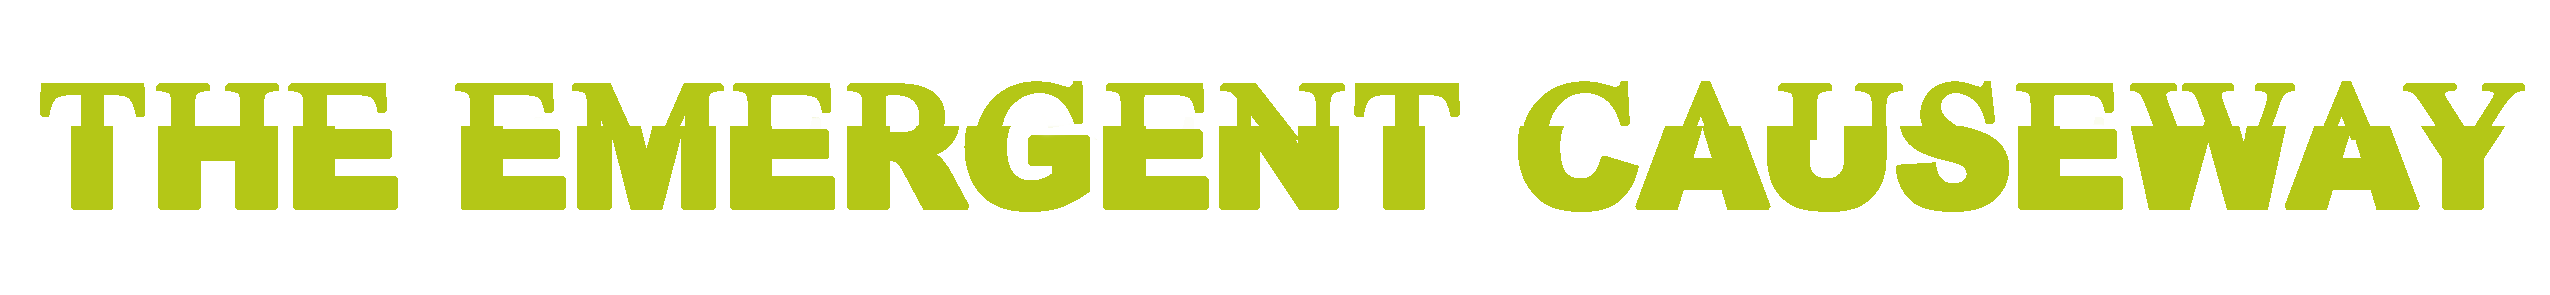
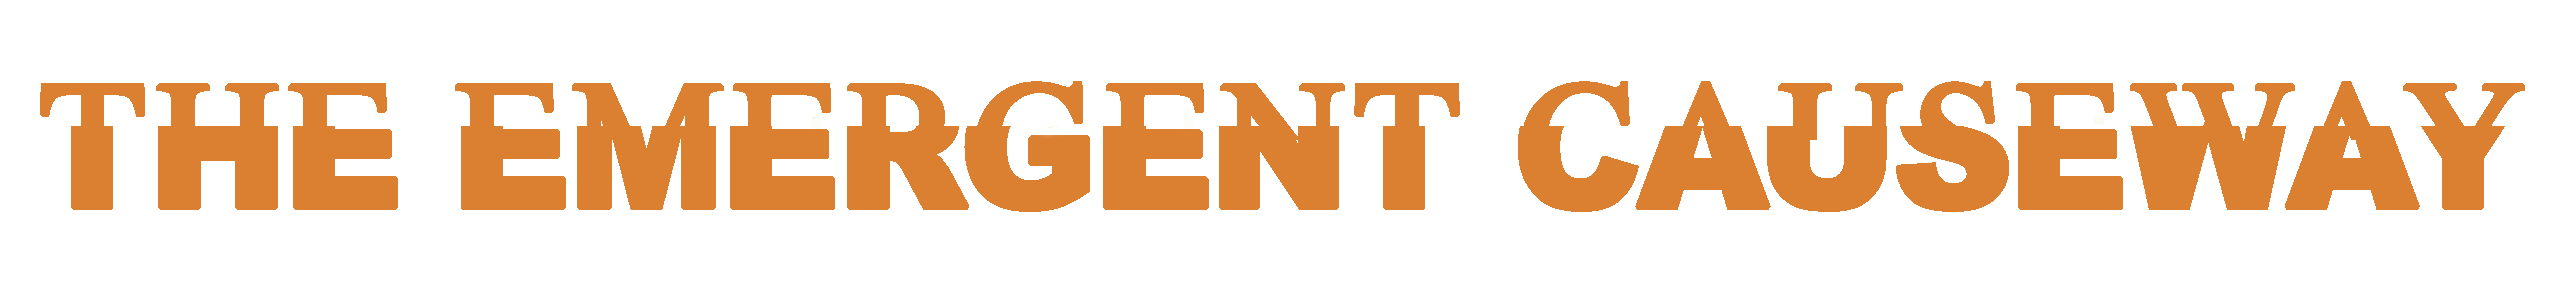
new color scheme lol

Changed region(s): [[0.0, 0.2746, 0.9914, 0.7322]]

diff --git a/causeway.html b/causeway.html
@@ -17,14 +17,14 @@
     <img src="images/causewaytitle.png">
   </div>
 
-<div>
+<div id="summary">
   <h1 class="summary">by hal_incandenza</h1>    
   <p class="summary">Just off the Interpelagic Highway, 500 km from Revachol West, 50 km from the edge of the Pale, stands the forgotten revolutionary outpost of Ifrania-du-roi, now nothing more than a tiny fishing village.</p>
   <p class="summary">Here, two strangers from the RCM find themselves: Disgraced Lt. 2/Y Harry Du Bois, suspended from duty after a disastrous investigation ended in massive bloodshed, and decorated Lt. Kim Kitsuragi, placed on leave after an event he refuses to discuss. But when a dead body turns up on the beach with an unidentifiable injury, and suspicion falls on Harry, the vacation comes to an unceremonious end.</p>
 </div> 
 
 <div class="toc">
-  <p id="#toc"><b>CONTENTS</b></p>
+  <p><b>CONTENTS</b></p>
   <p><a href="#ch1">Chapter 1</a></p>
   <p><a href="#ch2">Chapter 2</a></p>
   <p><a href="#ch3">Chapter 3</a></p>
@@ -32,8 +32,8 @@
   <p><a href="#ch5">Chapter 5 *new!*</a></p>
 </div>
 
+<div class="content" id="ch1">
   <h3><img src="images/DISCO_MAP.jpg" alt="Map of the Valènce Peninsula, torn from a guidebook and marked up in blue pen. The peninsula is nearly at the edge of the Pale."></h3>
-  <div id="ch1">
   <h1>Chapter 1: The Dacha Hostel</h1>
   <h2>DAY 1</h2>
   <p>APRIL, '51</p>
@@ -299,7 +299,10 @@
     <p>- Pétiller: Fizzing [as a reference to Fizzbin]</p>
     <p>- Malin: Evil (esprit malin = evil spirit.) </p>
     <p>- Gris: Gray (guide gris = gray guide) </p>
-    <p>- Flèche: arrow</p></div>
+    <p>- Flèche: arrow</p>
+    
+    <button type="button" href="#toc">⇧</button>
+  </div>
     </br></br></br></br></br></br>    
 </br></br></br></br></br></br>
 </br></br></br></br>
@@ -312,6 +315,7 @@
 </br>
 </br>
 </br></br></br></br></br>
+<div>
 <h1 id="ch2">Chapter 2: Sépulture en mer</h1>
 <h2>DAY 3 - 11:30 A.M. </h2>
 <p>Kim requisitioned his "travel journal" (so far used only for budget sums) for crime scene reporting. The dog was still barking—"Hey!" he said sharply. He pulled off a glove and whistled sharply. The dog sat immediately. Then it let out one more "woof!" of excitement. Duty never superseded emotion for this one. </p>
@@ -460,6 +464,7 @@
 <p>"Let's go," he said, not loudly. It galloped over, as if to say, <em><em>I've been waiting for you to say that! </em></em></p>
 <p>The ocean water had entered the gorge from both sides by this point, and east and west were moments from meeting in the middle. Kim mapped out a path he could take over the rocks without getting his boots wet. One last look at Armin—only his head and shoulder were still visible above the waves—and he took off. Rock under boot treads, arms out for balance, backpack bouncing off his spine, he leapt from stone to stone. The white waves flooded in below. </p>
 <p>By the time he'd crossed the gorge and reached the eastern beach, the body was gone. </p>
+</div>
 </br></br></br></br></br></br>    
 </br></br></br></br></br></br>
 </br></br></br></br>
@@ -472,6 +477,7 @@
 </br>
 </br>
 </br></br></br></br></br>
+<div>
 <h3><img src="images/DISCO_MAPch3.jpg" alt="Map of the Valènce Peninsula, marked up by hand, showing where the corpse was discovered." style="width:600px;"></h3>
     <h1 id="ch3">Chapter 3: REQUIN</h1>
     <p>The town of Ifrania-du-roi had no RCM presence. Kim learned this on his long walk home by asking at a few farms, houses, and encampments, and receiving only blank stares in return. A few people mentioned someone called "The Constable," but in a sort of last-ditch, 'you-may-as-well-try-it' tone that did not inspire confidence. On his walk, he also probed for information about 'phone and radio in Ifrania. He found out that the payphone at the Hotel de Ville was broken, and no one seemed to know whether the radio tower was relay or a broadcast station. </p>
@@ -829,8 +835,8 @@
     <p>It doesn't seem like that's the real answer, but Kim lets it pass. "Come on," he says. "Let's go." With that same strange reluctance, Harry walks out of his cell, and Kim locks it behind him. </p>
     <p>Kim's sleep that night was long and restless, a series of creatively designed nightmares strung together by the steady patter of rain on his window and the roar of the stormy sea. The usual street racing nightmare transitioned seamlessly into nightmares of Armin van Mauer's maimed face, the hole in his cheek tunneling through his brain. Armin spoke to him but Kim couldn't hear what he said. Then the hole appeared in the faces of other victims—Kim's aunt, Yves, Captain Delaney, kids from Kim's juvie cop days, kids he hadn't seen in a decade—probably parents now themselves, or dead in reality. In the dreams, he was responsible for each death in a different way, by fault or by inaction. He heard barking, but when he woke, he was alone; the dog slept in the stables. </p>
     <p><em>I don't usually have this many nightmares,</em> he reflected, lying in bed in the weak light of dawn. The car crash dream was usually enough for his anxiety to make its point. Perhaps this was an effect of proximity to l'émergence. Perhaps this was the cost of forgetting in his conscious hours. Despite the stress, he felt enlivened and awake as he left his room that morning, like the relief of throwing up after hours of nausea.</p>
-
-    </br></br></br></br>
+</div>
+</br></br></br></br>
 </br></br></br>
 </br></br></br></br></br></br>
 </br></br></br>
@@ -846,6 +852,7 @@
 </br></br></br>
 </br></br></br></br></br></br>
 </br></br></br>
+<div>
 <h3><img src="images/DISCO_MAPch4.jpg" alt="Map of the Valènce Peninsula." style="width:600px"></h3>
    <h1 id="ch4">Chapter 4: The Last of the Pretermodern Seraseolitic Wolves</h1>
     <h2>Day 4</h2>
@@ -1948,6 +1955,7 @@
 <p>Frontière: border</p>
 <p>Incroyable: unbelievable </p>
 <p>"au lycée": at the high school/secondary school</p>
+</div>
 </br></br></br>
 </br></br></br>
 </br></br></br></br></br></br>
@@ -1959,7 +1967,9 @@
 </br></br></br></br></br></br>
 </br></br></br>
 </br></br></br>
-    <h1 id="ch5">Chapter 5: Jamais-vu</h1>
+
+<div>
+<h1 id="ch5">Chapter 5: Jamais-vu</h1>
 <p>The street racing nightmare goes something like this. </p>
 
 <p>He's driving in the RCGP, the "Revachol Circuit Grand Prix" or, as it was more affectionately known, the Jamrock Slam(rock). The Jamrock Slam, like all the street league races in Revachol, was completely unofficial and highly illegal; the RCM could do little about it without calling in the INSURCOM to shut it down by force, and there was of course no mayor or city government to pass preventative ordinances. The RCGP was the championship race, the culmination of the season. The best you could do about the league was pay attention to the flyers and stay off the circuit streets on the posted nights, when Revachol's tenuous, Coalition-enforced democracy gave way to total anarchy. </p>
@@ -2451,8 +2461,7 @@
 <p>Kim closes the door on the sound of Harry's shuffling footsteps, with the warm, wan friendliness of his voice lingering in his ears. He thinks of the '32 Jamrock Slam. Despite his exhaustion, Kim crawls into bed with a strange feeling of buoyancy; it's a feeling he remembers from when he was a child, when he acquired a new, precious object, and could hardly fall asleep for the excitement of waking up tomorrow. A feeling of discovery and newness. </p>
 
 <p class="skill"><span class="psy">VOLTA DO MAR:</span> (impossible—failure) You'll still dream about pulling Yves from the wreck. </p>
-
-
+</div>
 
 </body>
 </html>

diff --git a/causewaystyle.css b/causewaystyle.css
@@ -1,3 +1,4 @@
+:root { scroll-behavior: smooth; }
 
 /* main text */
 h1 {
@@ -54,12 +55,12 @@ img {
 }
 
 .cushion {
-  height: 1000px;
+  height: 90em;
 }
 
 /*Page stuff */
 
-.toc {
+#toc {
   text-align: center;
   margin: 1em auto;
 }
@@ -78,6 +79,15 @@ body {
   background-repeat: no-repeat;
   background-size: contain;
   background-color: #292625;  
+}
+
+button {
+  background-color: #46403f;
+  color:rgb(146, 255, 197);
+  padding: 1em;
+  border: none;
+  text-align: center;
+  font-size: 30px;
 }
 
  /* unvisited link */
